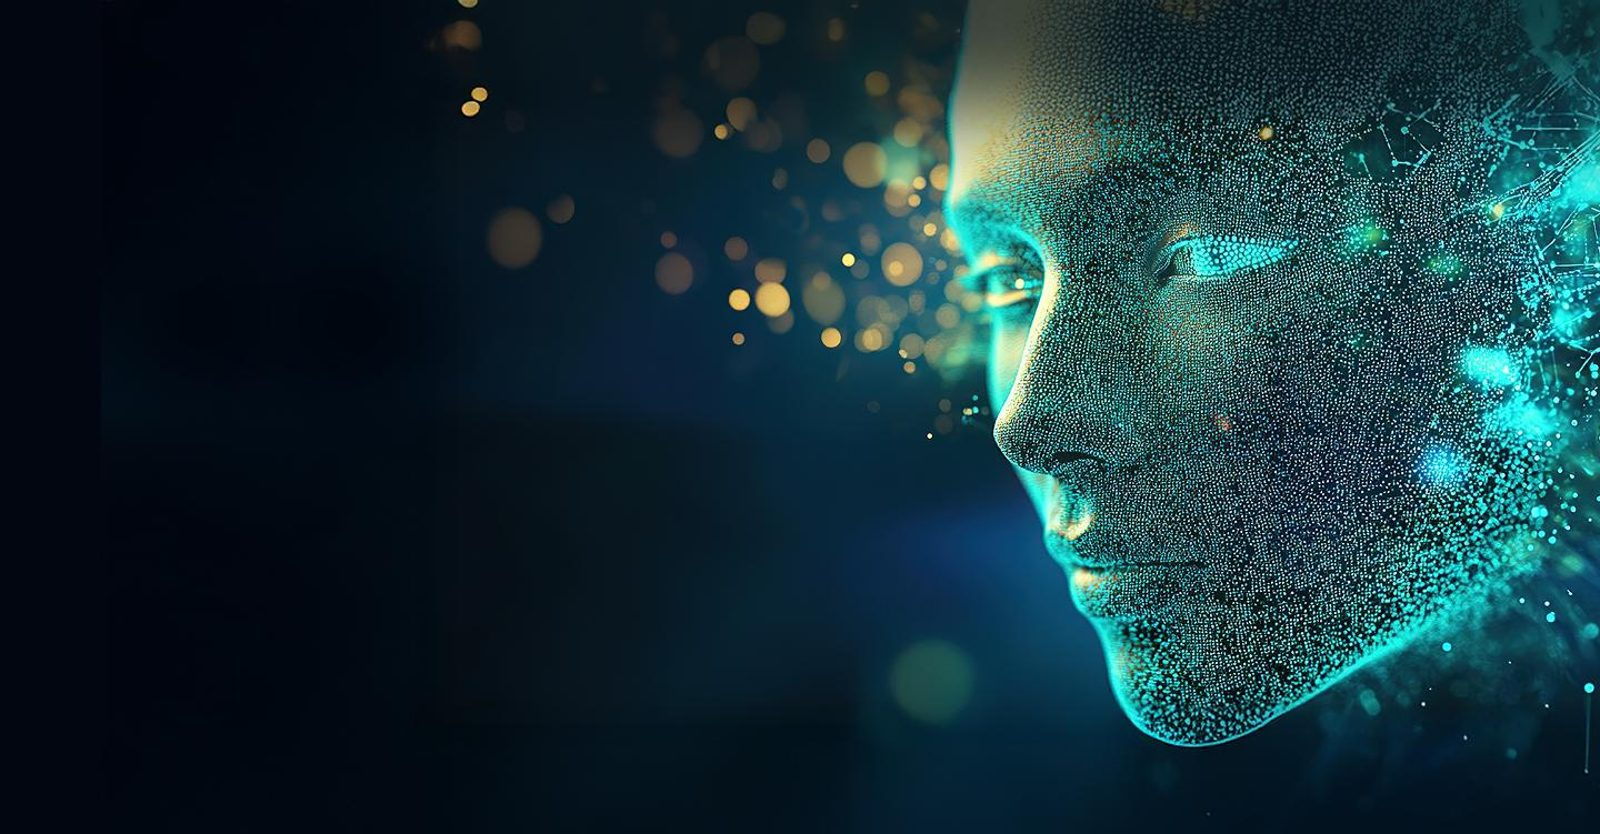
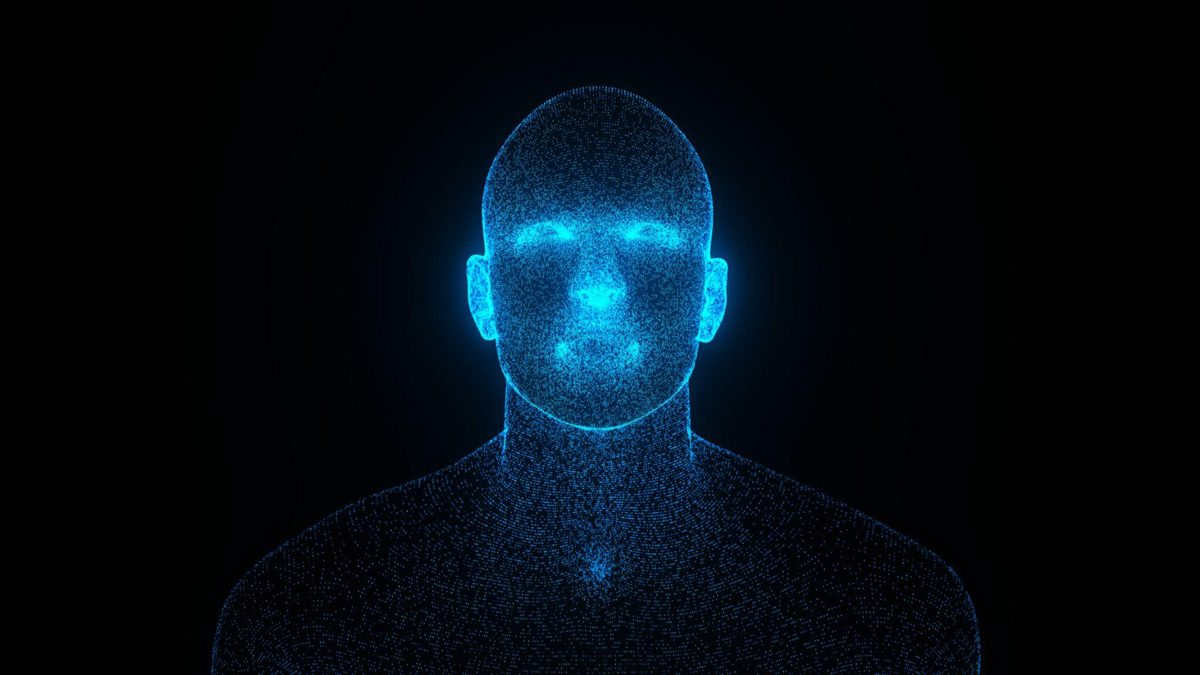
feat: 큰 히어로 배너(200/260px)·로그인 얼굴 풀스크린, 채팅 도크 스와이프(손가락 추적+스프링)
Claude-Session: https://claude.ai/code/session_01GxQPoHYznBYtupp3RKoJnj

diff --git a/app/globals.css b/app/globals.css
@@ -62,7 +62,7 @@ textarea{resize:vertical;min-height:140px}
 
 /* auth */
 .auth{max-width:380px;margin:8vh auto 0;width:100%}
-.login-bg .auth{margin-top:min(34vh,300px)}
+.login-bg .auth{margin-top:min(48vh,420px)}
 .auth h1{font-family:var(--f-display);font-weight:400;font-size:32px;margin:0}
 .auth .switch{display:flex;gap:4px;border-bottom:1px solid var(--line);margin-bottom:4px}
 .auth .switch button{flex:1;background:none;border:0;font:inherit;font-weight:600;color:var(--muted);padding:10px 0;cursor:pointer;border-bottom:2px solid transparent;margin-bottom:-1px}
@@ -153,7 +153,15 @@ canvas{max-width:100%}
 
 /* 하단 채팅 독 */
 main{padding-bottom:calc(96px + env(safe-area-inset-bottom,0px))}
-.dock{position:fixed;left:0;right:0;bottom:0;z-index:40;background:var(--surface);border-top:1px solid var(--line);box-shadow:0 -6px 24px rgba(0,0,0,.08);
+.dock{position:fixed;left:0;right:0;bottom:0;z-index:40;background:var(--surface);border-top:1px solid var(--line);box-shadow:0 -6px 24px rgba(0,0,0,.08);transition:transform .36s cubic-bezier(.32,.72,0,1);will-change:transform;touch-action:none}
+.dock.dragging{transition:none}
+.dock-bar{touch-action:none;user-select:none;-webkit-user-select:none}
+.dock-last{transition:opacity .2s,max-height .2s}
+.dock.open .dock-last{opacity:0;max-height:0}
+.dock:not(.open) .dock-last{max-height:40px}
+.dock-body{transition:opacity .25s}
+.dock:not(.open) .dock-body{opacity:.0;pointer-events:none}
+.dock{
   padding-left:max(16px,env(safe-area-inset-left,0px));padding-right:max(16px,env(safe-area-inset-right,0px));padding-bottom:env(safe-area-inset-bottom,0px)}
 .dock-bar{width:100%;max-width:760px;margin:0 auto;display:grid;gap:4px;background:none;border:0;font:inherit;color:var(--ink);padding:6px 0 10px;cursor:pointer;text-align:left}
 .dock-handle{width:40px;height:4px;border-radius:2px;background:var(--line);justify-self:center}
@@ -164,7 +172,7 @@ main{padding-bottom:calc(96px + env(safe-area-inset-bottom,0px))}
 .dock-unread{background:var(--signal);color:#fff;border-radius:999px;font-size:11px;font-weight:600;padding:1px 7px}
 .dock-caret{margin-left:auto;color:var(--muted);font-size:12px}
 .dock-body{max-width:760px;margin:0 auto}
-.dock.open .chat{height:min(68vh,620px);min-height:260px}
+.dock .chat{height:min(68vh,620px);min-height:260px}
 .dock{border-radius:18px 18px 0 0;max-height:calc(100dvh - 60px)}
 .dock.open main{padding-bottom:0}
 body:has(.dock.open) main{padding-bottom:calc(min(68vh,620px) + 90px)}
@@ -228,16 +236,18 @@ body:has(.dock.open) main{padding-bottom:calc(min(68vh,620px) + 90px)}
 @media (prefers-reduced-motion:reduce){.insignia .sweep,.insignia .tw,.shine-t5,.shine-t6{animation:none}}
 
 /* 이미지 배너 */
-.hero{position:relative;border-radius:14px;overflow:hidden;background-size:cover;background-position:center;min-height:120px;display:flex;align-items:flex-end;background-color:#06141A}
-.hero::before{content:"";position:absolute;inset:0;background:linear-gradient(180deg,rgba(6,20,26,.05),rgba(6,20,26,.75))}
-.hero-in{position:relative;padding:16px 18px;color:#F4FBF9}
-.hero-in h2{font-family:var(--f-display);font-weight:400;font-size:28px;margin:0;letter-spacing:.5px;text-shadow:0 2px 12px rgba(0,0,0,.6)}
-.hero-in p{margin:2px 0 0;font-size:13px;color:#BFD6CF}
-.login-bg{min-height:100%;background:#040B0E url(/img/login.jpg) 72% 20%/cover no-repeat;position:relative}
-.login-bg::before{content:"";position:absolute;inset:0;background:linear-gradient(180deg,rgba(4,11,14,.15) 0%,rgba(4,11,14,.35) 45%,rgba(4,11,14,.85) 100%)}
+.hero{position:relative;border-radius:16px;overflow:hidden;background-size:cover;background-position:center 30%;min-height:200px;display:flex;align-items:flex-end;background-color:#06141A;box-shadow:0 10px 30px rgba(0,0,0,.18)}
+@media (min-width:700px){.hero{min-height:260px}}
+.hero::before{content:"";position:absolute;inset:0;background:linear-gradient(180deg,rgba(6,20,26,0) 30%,rgba(6,20,26,.82))}
+.hero-in{position:relative;padding:18px 20px;color:#F4FBF9}
+.hero-in h2{font-family:var(--f-display);font-weight:400;font-size:40px;line-height:1;margin:0;letter-spacing:.5px;text-shadow:0 2px 14px rgba(0,0,0,.7)}
+.hero-in p{margin:6px 0 0;font-size:14px;color:#BFD6CF}
+.login-bg{min-height:100%;background:#040B0E url(/img/login.jpg) center 35%/cover no-repeat;position:relative;background-attachment:scroll}
+@media (min-width:700px){.login-bg{background-position:center 25%}}
+.login-bg::before{content:"";position:absolute;inset:0;background:linear-gradient(180deg,rgba(4,11,14,.05) 0%,rgba(4,11,14,.15) 40%,rgba(4,11,14,.9) 100%)}
 @media (min-width:700px){.login-bg{background-position:center 30%}}
 .login-bg .app{position:relative}
-.login-card{background:color-mix(in srgb,var(--surface) 92%,transparent);border:1px solid var(--line);border-radius:16px;padding:22px;box-shadow:0 20px 60px rgba(0,0,0,.45);backdrop-filter:blur(6px)}
+.login-card{background:color-mix(in srgb,var(--surface) 88%,transparent);border:1px solid var(--line);border-radius:16px;padding:22px;box-shadow:0 20px 60px rgba(0,0,0,.45);backdrop-filter:blur(6px)}
 .login-card h1{color:var(--ink)}
 @media (prefers-color-scheme:dark){.login-card{background:rgba(24,34,31,.88)}}
 .def-unit.locked{opacity:.5;cursor:default;border-style:dashed}

diff --git a/components/ChatDock.tsx b/components/ChatDock.tsx
@@ -1,5 +1,5 @@
 "use client";
-import { useEffect, useState } from "react";
+import { useEffect, useRef, useState } from "react";
 import { usePathname } from "next/navigation";
 import ChatRoom, { type Msg } from "./ChatRoom";
 import type { Session } from "@/lib/auth";
@@ -10,21 +10,59 @@ export default function ChatDock({ me, initial, online, myRank, official }: { me
   const [open, setOpen] = useState(false);
   const [unread, setUnread] = useState(0);
   const [last, setLast] = useState<Msg | null>(initial[initial.length - 1] ?? null);
-  // 기본은 접힌 띠(최근 메시지 2줄 미리보기)로 항상 보임. 사용자가 펼쳤으면 그 선택을 기억(게임 화면 제외).
+  const bodyRef = useRef<HTMLDivElement>(null);
+  const dockRef = useRef<HTMLDivElement>(null);
+  const drag = useRef<{ y0: number; t0: number; dy: number; h: number; moved: boolean } | null>(null);
+  const [bodyH, setBodyH] = useState(0);
+
   useEffect(() => { let v: string | null = null; try { v = localStorage.getItem("mw-chat-open"); } catch {} setOpen(path.startsWith("/games") ? false : v === "1"); }, [path]);
-  const toggle = () => { setOpen(o => { try { localStorage.setItem("mw-chat-open", o ? "0" : "1"); } catch {} ; return !o; }); setUnread(0); };
+  useEffect(() => {
+    const el = bodyRef.current; if (!el) return;
+    const ro = new ResizeObserver(() => setBodyH(el.offsetHeight)); ro.observe(el); setBodyH(el.offsetHeight);
+    return () => ro.disconnect();
+  }, []);
+  const setOpenPersist = (v: boolean) => { setOpen(v); try { localStorage.setItem("mw-chat-open", v ? "1" : "0"); } catch {} if (v) setUnread(0); };
+
+  // 손가락 따라오는 스와이프: 바를 잡고 위/아래로 끌면 그만큼 열리고, 놓을 때 속도/거리로 판정
+  const onDown = (e: React.PointerEvent) => {
+    drag.current = { y0: e.clientY, t0: performance.now(), dy: 0, h: bodyH, moved: false };
+    (e.currentTarget as HTMLElement).setPointerCapture(e.pointerId);
+    dockRef.current?.classList.add("dragging");
+  };
+  const onMove = (e: React.PointerEvent) => {
+    const d = drag.current; if (!d || !dockRef.current) return;
+    d.dy = e.clientY - d.y0; if (Math.abs(d.dy) > 6) d.moved = true;
+    const base = open ? 0 : d.h; // 현재 translateY
+    let y = base + d.dy;
+    if (y < 0) y = -Math.pow(-y, 0.6) * 1.2; // 끝에서 고무줄
+    if (y > d.h) y = d.h + Math.pow(y - d.h, 0.6);
+    dockRef.current.style.transform = `translateY(${y}px)`;
+  };
+  const onUp = (e: React.PointerEvent) => {
+    const d = drag.current; drag.current = null; if (!d || !dockRef.current) return;
+    dockRef.current.classList.remove("dragging");
+    dockRef.current.style.transform = "";
+    if (!d.moved) { setOpenPersist(!open); return; } // 탭 = 토글
+    const v = d.dy / Math.max(1, performance.now() - d.t0); // px/ms
+    const base = open ? 0 : d.h; const y = base + d.dy;
+    const next = Math.abs(v) > 0.5 ? v < 0 : y < d.h / 2;
+    if (next !== open) setOpenPersist(next); else if ("vibrate" in navigator) try { navigator.vibrate(5); } catch {}
+  };
+
   return (
-    <div className={"dock" + (open ? " open" : "")}>
-      <button type="button" className="dock-bar" onClick={toggle} aria-expanded={open}>
+    <div ref={dockRef} className={"dock" + (open ? " open" : "")} style={{ transform: open ? "translateY(0)" : `translateY(${bodyH}px)` }}>
+      <div className="dock-bar" role="button" tabIndex={0} aria-expanded={open}
+        onPointerDown={onDown} onPointerMove={onMove} onPointerUp={onUp} onPointerCancel={onUp}
+        onKeyDown={e => { if (e.key === "Enter" || e.key === " ") { e.preventDefault(); setOpenPersist(!open); } }}>
         <span className="dock-handle" aria-hidden="true" />
         <span className="dock-row">
           <span className="dock-title">💬 실시간 채팅 {online}</span>
           {!open && unread > 0 && <span className="dock-unread">{unread}</span>}
           <span className="dock-caret">{open ? "접기 ▾" : "펼치기 ▴"}</span>
         </span>
-        {!open && last && <span className="dock-last"><b>{display(last.dept, last.nickname)}</b> {last.text}</span>}
-      </button>
-      <div className="dock-body" hidden={!open}>
+        <span className="dock-last" aria-hidden={open}>{last && <><b>{display(last.dept, last.nickname)}</b> {last.text}</>}</span>
+      </div>
+      <div className="dock-body" ref={bodyRef} aria-hidden={!open}>
         <ChatRoom me={me} initial={initial} myRank={myRank} official={official} onNew={m => { setLast(m); if (!open && m.user_id !== me.id) setUnread(n => n + 1); }} />
       </div>
     </div>
